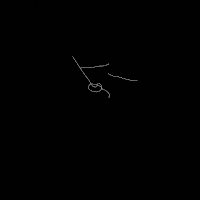
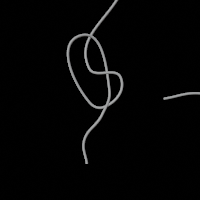
randomize overhand knot slightly

Changed region(s): [[0.33, 0.06, 0.69, 0.84], [0.81, 0.45, 1.0, 0.51], [0.54, 0.0, 0.6, 0.06]]

diff --git a/rope-tube.py b/rope-tube.py
@@ -159,6 +159,35 @@ class RopeRenderer:
         self.rope_asymm.data.materials.append(mat)
         # mat.base_color = (1, 1, 1)
 
+    def gen_random_knot(self, offset_min, offset_max):
+        #TODO: write function to randomly place each point rather than specific places or semi-random locations
+        p0 = np.random.choice(range(3, len(self.bezier_points) - 7))
+        offset_avg = np.random.uniform(offset_min, offset_max)
+
+        self.bezier_points[p0 + 1].co.y += offset_avg
+        # increase z of p0 + 1
+        cable_height = 0.025
+        self.bezier_points[p0 - 1].co.z += cable_height
+        # self.bezier_points[p0 + 1].co.z += cable_height*2
+        self.bezier_points[p0].co.z -= cable_height
+        self.bezier_points[p0 + 1].co.x += 0.1
+        self.bezier_points[p0 + 1].co.z += cable_height
+        self.bezier_points[p0 + 2].co.y += offset_avg - 0.1
+        self.bezier_points[p0 + 2].co.x = self.bezier_points[p0].co.x - 0.1
+        self.bezier_points[p0 + 3].co.x = self.bezier_points[p0 + 2].co.x
+        # self.bezier_points[p0 + 4].co.z -= cable_height*2
+        avg1 = (self.bezier_points[p0 + 1].co.x + self.bezier_points[p0 + 2].co.x)/2 
+        self.bezier_points[p0 + 4].co.x = np.random.uniform(avg1 - 0.01, avg1 + 0.01)
+        self.bezier_points[p0 + 4].co.y -= 0.04
+        avg2 = (self.bezier_points[p0 + 1].co.x + self.bezier_points[p0 + 2].co.x)/2
+        self.bezier_points[p0 + 5].co.x = np.random.uniform(avg2 - 0.01, avg2 + 0.01)
+        self.bezier_points[p0 + 5].co.y = 0.25
+        self.bezier_points[p0 + 6].co.x = 0.0
+        self.bezier_points[p0 + 6].co.y = 0.25
+        self.bezier_points[p0 + 6].co.z -= cable_height
+        
+        return set(range(p0, p0 + 5))
+
     def make_overhand_knot(self, offset_min, offset_max):
         # Geometrically arrange the bezier points into a loop, and slightly randomize over node positions for variety
         #    2_______1
@@ -334,9 +363,9 @@ class RopeRenderer:
                 intersect_grid contig = false
         """
 
-        all_points_3d_contig = []
-        for i, pt in enumerate(self.bezier_points):
-            print(pt.)
+        # all_points_3d_contig = []
+        # for i, pt in enumerate(self.bezier_points):
+        #     print(pt.)
             # bpy.mathutils.geometry.interpolate_bezier(self.bezier_points[i])
 
 
@@ -354,7 +383,8 @@ class RopeRenderer:
             self.make_bezier()
             self.add_rope_asymmetry()
             # self.make_simple_loop(0.3, 0.3)
-            self.make_overhand_knot(0.3, 0.3)
+            # self.make_overhand_knot(0.3, 0.3)
+            self.gen_random_knot(0.05, 0.4)
             self.randomize_nodes(3, 0.05, 0.05, False)
             self.make_distractor_cables(n=np.random.randint(1, 3))
 
@@ -370,6 +400,6 @@ class RopeRenderer:
 if __name__ == '__main__':
     with open("params.json", "r") as f:
         rope_params = json.load(f)
-        rope_params['num_images'] = 1
+        rope_params['num_images'] = 10
     renderer = RopeRenderer(save_depth=rope_params["save_depth"], save_rgb=(not rope_params["save_depth"]), num_images = rope_params["num_images"], coord_offset=rope_params["coord_offset"], bezier_knots=rope_params["bezier_knots"])
     renderer.run()
